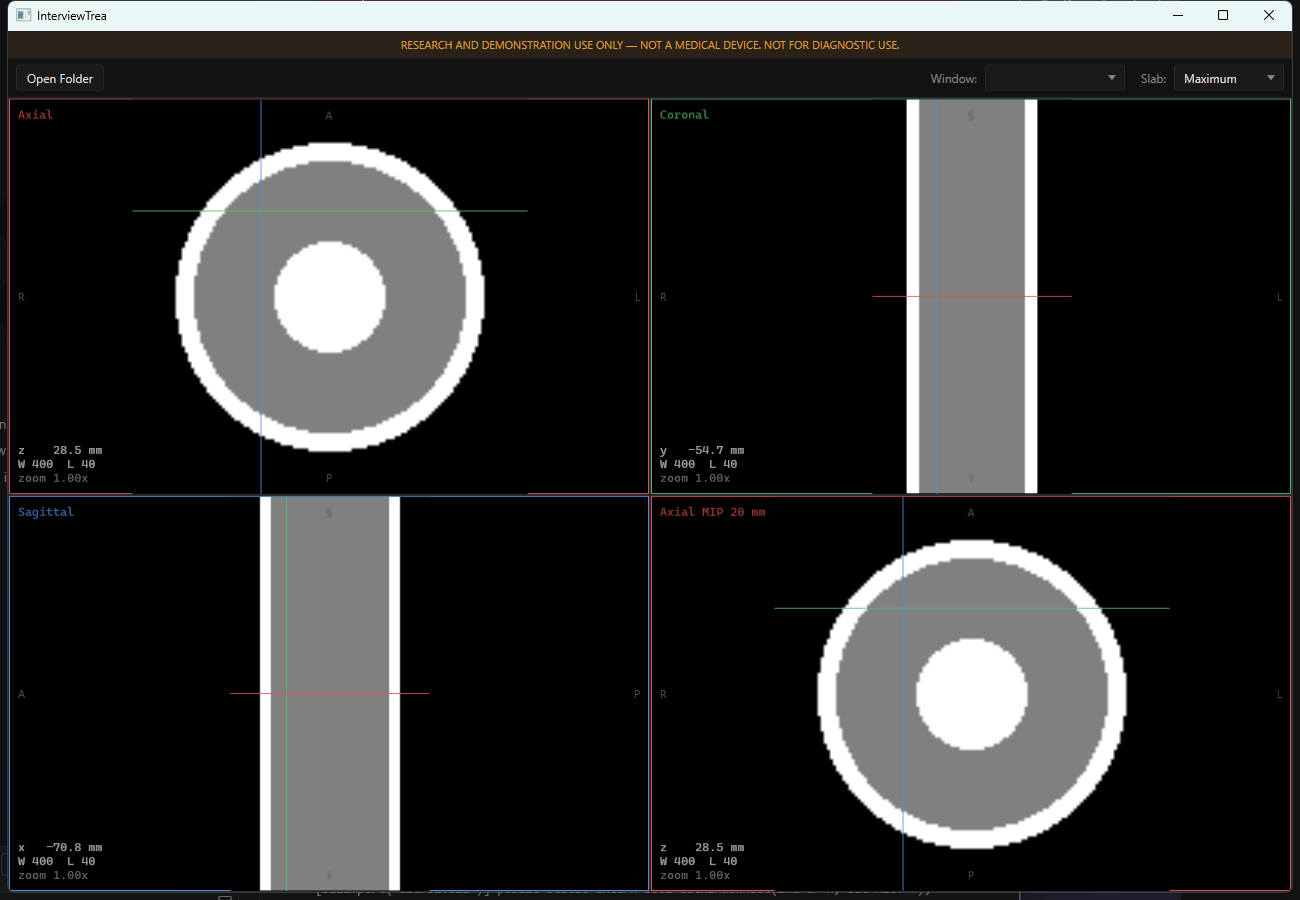
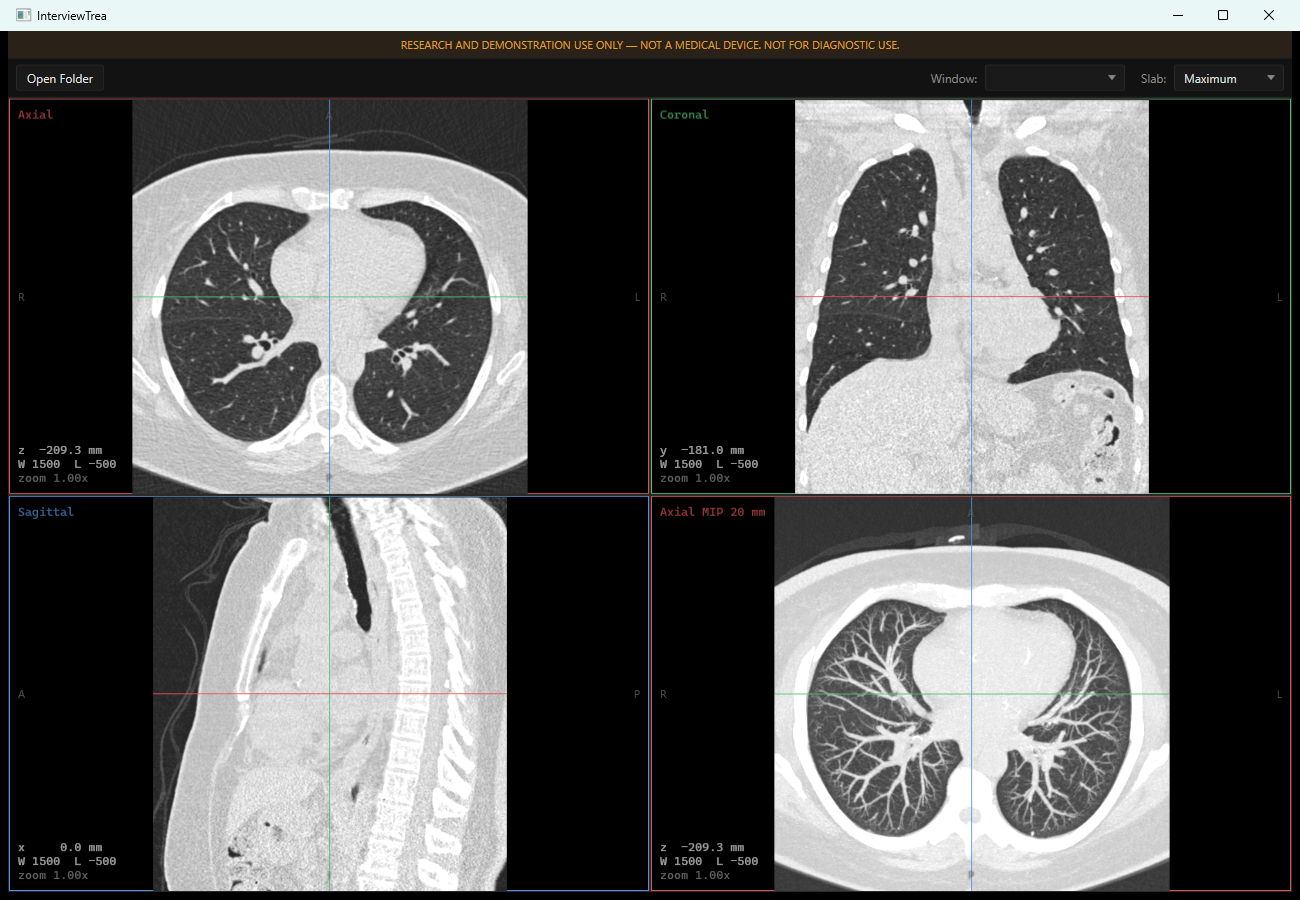
docs: real-data screenshot with TCIA attribution (FR-201, FR-205, DQ-2)
Replaces the synthetic phantom capture with LIDC-IDRI-0599 in the lung
window the series carries. The MIP pane now shows what slab projection is
actually for. CC BY 3.0 attribution added; no DICOM is redistributed.

Claude-Session: https://claude.ai/code/session_01NUShBXGKLtkjbPPYuC91rh

diff --git a/docs/traceability.md b/docs/traceability.md
@@ -50,7 +50,7 @@ Empty and honest beats populated and fabricated.
 | FR-208 | Aspect ratio shall be correct for anisotropic voxels | The output grid is isotropic **in patient space**: both of a plane's step vectors are the same length in millimetres, so a 0.7 x 0.7 x 3.0 mm volume resliced coronally produces ~134 rows of genuinely interpolated data rather than 32 stretched ones. Supersedes the Iteration 2 bitmap-DPI approach, which could correct the proportions but could not create the missing rows. | `ASphereStaysRoundInACoronalReslice` — the two great-circle diameters must agree within the grid's own quantisation, against the 4.3x error a missing correction costs; `CoronalResolvesTheSliceAxisInMillimetresRatherThanInSlices`; `AnObliquelyAcquiredVolumeGetsAGridWideEnoughForItsFootprint` | Done || FR-207 | The slab viewport shall support Maximum, Minimum and Average projection over a user-set thickness | `SlabRenderer.Render` with `SlabMode`. The in-plane walk is `PlaneRenderer`'s; the addition is an inner loop along the normal, centred on the plane so thickness grows outwards and the anatomy under the crosshair stays put. Samples along the normal are spaced at the plane's own pixel pitch. Out-of-bounds samples are skipped rather than folded in as -1024 — MIP would survive that, MinIP would report solid air along every edge. | `EachModeCollapsesTheSlabItsOwnWay` (a ramp read along its gradient gives the three modes three separately derived answers), `AThickerSlabReachesFurtherUpTheRamp`, `ASlabThinnerThanOneSampleIsThePlaneItself`, `SamplesOutsideTheVolumeAreSkippedRatherThanCountedAsAir`, `TheDepthPitchFollowsTheGridRatherThanBeingFixed` | Done — renderer; the viewport and its controls follow in T18/T19 || NFR-201 | Axis-aligned slice render under 8 ms at 512x512 | `ResliceRenderer.RenderAxial` (0.105 ms) and `PlaneRenderer.Render` on an axial plane (2.354 ms). The viewports use the general path; the fast path is kept as the measured comparison. | `ResliceBenchmarks.AxialFastPath`, `AxialThroughThePlaneRenderer` — see `docs/performance.md` | Done — 3.4x headroom on the path actually used |
 | NFR-202 | Oblique reslice under 16 ms at 512x512 | `PlaneRenderer.Render` on a plane 30 degrees out of axial (1.949 ms) | `ResliceBenchmarks.ObliqueReslice` | Done — but see the note in `docs/performance.md`: part of that plane falls outside the volume, so the figure flatters the oblique path |
 | NFR-203 | Slab MIP over 20 mm under 33 ms | `SlabRenderer.Render`, 30 samples per output pixel, rows rendered on `Parallel.For` | `ResliceBenchmarks.SlabMaximum20Mm`, `SlabAverage20Mm` | Done — 14.1 ms, 2.3x headroom. Baseline was 81.5 ms and missed the target; before and after figures, and the one optimization that was tried and reverted for making it 43% slower, are in `docs/performance.md` |
-| NFR-304 | Every NFR-200 target has a committed BenchmarkDotNet result with before/after figures | `tests/InterviewTrea.Benchmarks`, results transcribed into `docs/performance.md` with the machine, the workload and an honest reading of each row | Manual — the benchmark project is the artefact; it is excluded from CI because a two-minute run on shared hardware produces meaningless numbers | Done — baseline captured || FR-201 | Four viewports in a 2x2 layout: axial, coronal, sagittal, slab | `MainWindow.xaml`'s viewport grid holding four `ViewportControl`s, each bound to one `ViewportViewModel` and to the shared `MainViewModel` | Manual — see `docs/images/mpr-2x2.png`, captured from the running application against `data/synthetic-phantom` | Done |
+| NFR-304 | Every NFR-200 target has a committed BenchmarkDotNet result with before/after figures | `tests/InterviewTrea.Benchmarks`, results transcribed into `docs/performance.md` with the machine, the workload and an honest reading of each row | Manual — the benchmark project is the artefact; it is excluded from CI because a two-minute run on shared hardware produces meaningless numbers | Done — baseline captured || FR-201 | Four viewports in a 2x2 layout: axial, coronal, sagittal, slab | `MainWindow.xaml`'s viewport grid holding four `ViewportControl`s, each bound to one `ViewportViewModel` and to the shared `MainViewModel` | Manual — see `docs/images/mpr-2x2.png`, captured from the running application against LIDC-IDRI-0599 (456 slices, 0.56 x 0.56 x 0.70 mm) | Done |
 | FR-203 | Single-viewport maximized mode, toggled by double-click | `MainViewModel.ToggleMaximized` and `MainWindow.ApplyLayout`. The maximized pane is stretched across all four cells rather than re-parented, so it keeps its bitmap, its zoom and its handlers | Manual — verified by simulated double-click; the pane refits and its readouts survive | Done |
 | FR-204 | Orientation overlay (A/P/L/R/S/I at the edges) | `AnatomicalDirection.Of` applied to each display axis in `ViewportViewModel`'s constructor; four `TextBlock`s pinned outside the pane's transform | `AnatomicalDirectionTests.TheStandardPlanesCarryTheExpectedMarkers` | Done |
 | FR-205 | Slice position in mm, window/level, zoom factor; no patient identifiers (DI-1) | `ViewportViewModel.PositionLabel` quotes the position on the patient axis the plane cuts, `MainViewModel.WindowLabel` the window, and the control's own `ZoomLabel` the zoom, where 1.00 is fit-to-pane. Nothing from `VolumeMetadata` reaches the overlay | Manual — visible in `docs/images/mpr-2x2.png` | Done |

diff --git a/README.md b/README.md
@@ -24,12 +24,18 @@ other three. All three NFR-200 performance targets are met — see
 
 ![The 2x2 MPR layout with linked crosshairs](docs/images/mpr-2x2.png)
 
-*Synthetic phantom, 128 x 128 x 60 at 0.7 x 0.7 x 3.0 mm. No patient data appears anywhere
-in this repository.*
+*LIDC-IDRI-0599, 456 slices at 512 x 512, 0.56 x 0.56 x 0.70 mm, in the lung window the
+series itself carries. Note the bottom-right pane: a 20 mm maximum-intensity slab resolves
+the vascular tree as continuous branches where the thin axial above it shows the same
+vessels as disconnected dots. Data from
+[The Cancer Imaging Archive](https://doi.org/10.7937/K9/TCIA.2015.LO9QL9SX), de-identified
+by its publishers and used under CC BY 3.0; see [Attribution](#attribution). No DICOM is
+committed to this repository, and no patient identifier is displayed in any viewport
+(DI-1).*
 
 | Iteration | Goal | State |
 |---|---|---|
-| 1 | Folder of DICOM to validated `Volume` | Done, pending the acceptance run against real data |
+| 1 | Folder of DICOM to validated `Volume` | Done |
 | 2 | Single axial viewport, scroll, window/level | Done |
 | 3 | 2x2 MPR with linked crosshairs | Done |
 | 4 | Measurement and oblique reslicing | Not started |
@@ -173,3 +179,20 @@ Stated plainly, because a vague limitations section is worse than none.
   than a guess. See [docs/performance.md](docs/performance.md).
 - No PACS or DICOMweb connectivity, no volume rendering, no curved MPR, no multi-study
   comparison, no non-CT modalities. These are deliberate non-goals, not gaps.
+
+## Attribution
+
+The screenshots and the acceptance runs use the **LIDC-IDRI** collection from The Cancer
+Imaging Archive, de-identified by its publishers and licensed
+[CC BY 3.0](https://creativecommons.org/licenses/by/3.0/). No DICOM is redistributed here.
+
+> Armato SG III, McLennan G, Bidaut L, et al. *Data From LIDC-IDRI*. The Cancer Imaging
+> Archive, 2015. https://doi.org/10.7937/K9/TCIA.2015.LO9QL9SX
+>
+> Armato SG III, McLennan G, Bidaut L, et al. "The Lung Image Database Consortium (LIDC)
+> and Image Database Resource Initiative (IDRI): A completed reference database of lung
+> nodules on CT scans." *Medical Physics* 38(2): 915-931, 2011.
+>
+> Clark K, Vendt B, Smith K, et al. "The Cancer Imaging Archive (TCIA): Maintaining and
+> Operating a Public Information Repository." *Journal of Digital Imaging* 26(6):
+> 1045-1057, 2013.
